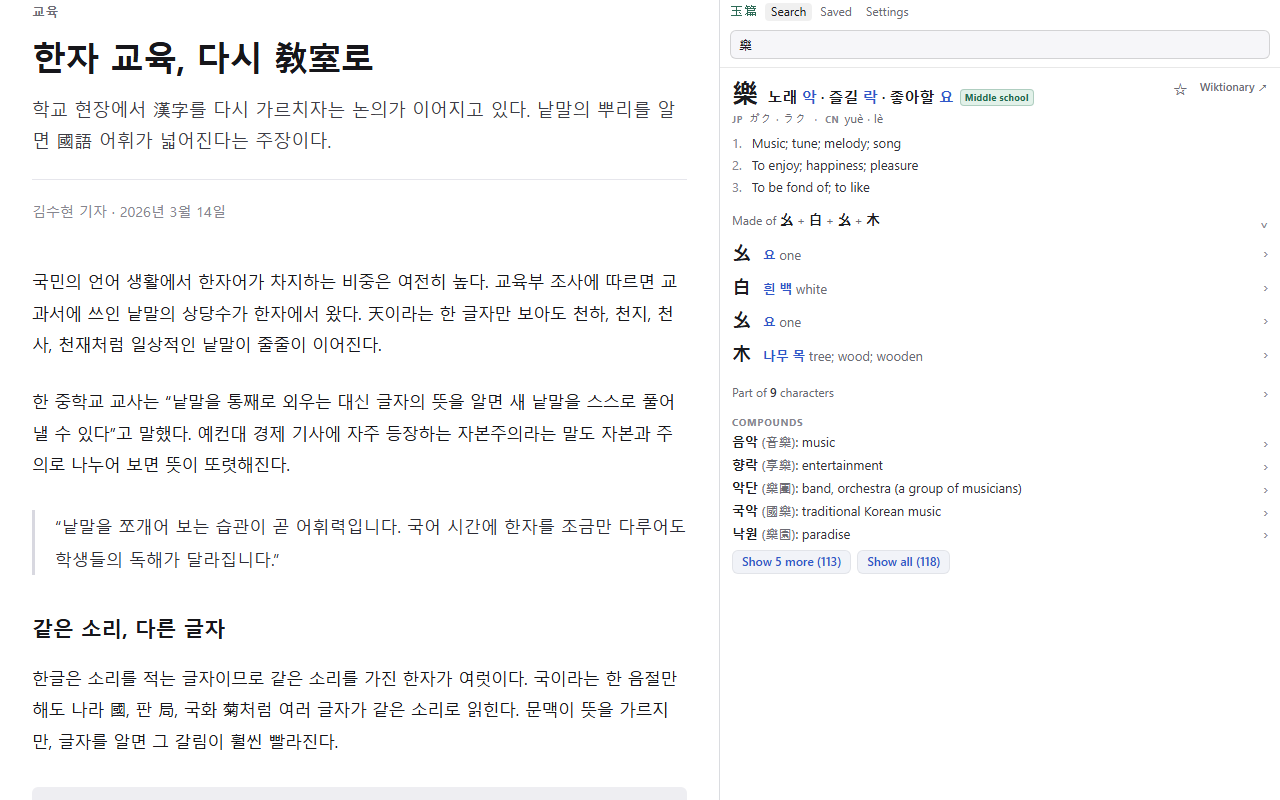
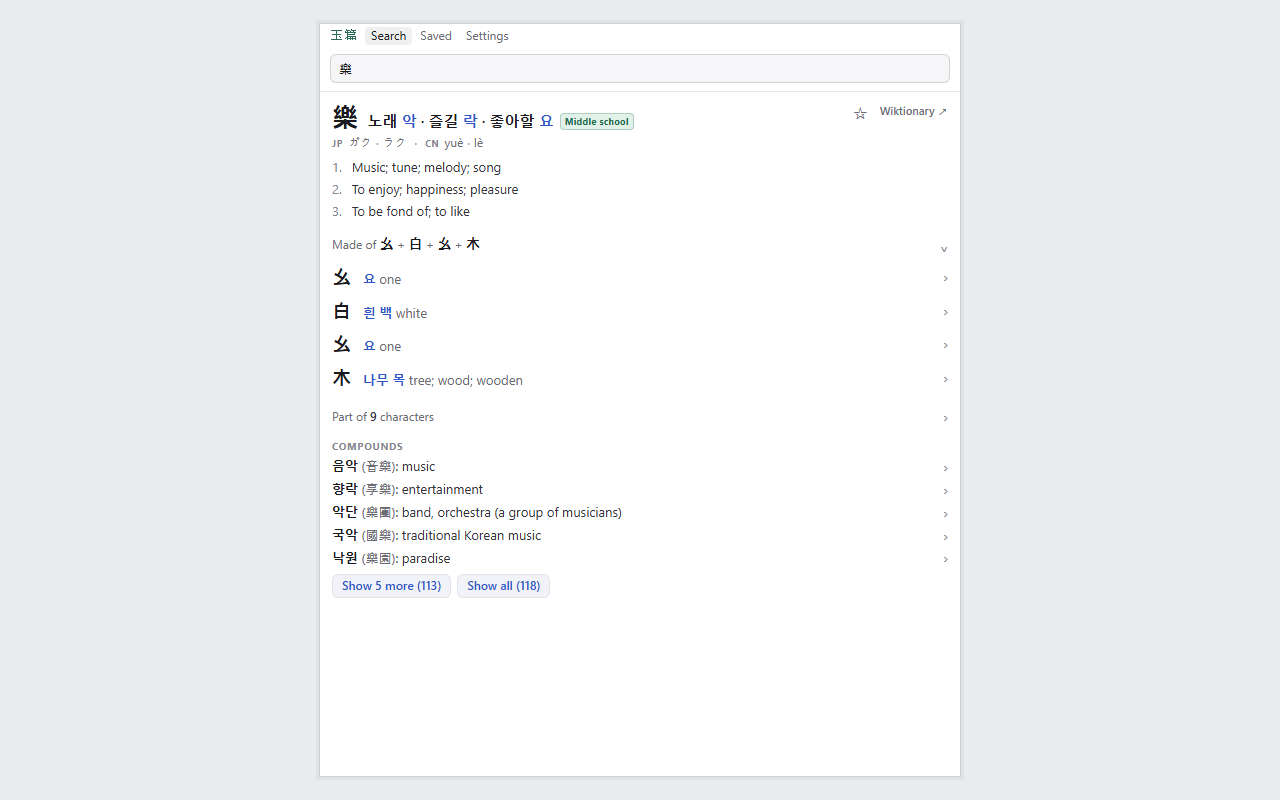
Screenshots: the four panel scenes become solo mounts
No article: the panel captures at 640x752 and mounts centered on a
quiet grey canvas with a hairline border, since the sidebar is the
subject and the fake page was noise there. Popup scenes untouched and
byte-identical. Shot 6's seal-room rule was re-measured at the new
height and the expanded folder flipped to keep the seal in frame;
shot 7 now shows the whole settings page including the new groups
and footer.

diff --git a/pipeline/make_screenshots.py b/pipeline/make_screenshots.py
@@ -27,8 +27,10 @@ This script then:
   3. captures each scene in its own tab, with the viewport size set BEFORE
      navigation (content.js hides the popup on resize, so a late resize would
      empty the shot),
-  4. composites the side-panel shots beside a narrower page shot, with the 1px
-     separator Chrome draws between a page and its side panel,
+  4. mounts the side-panel shots alone, centered on a quiet neutral backdrop
+     (the panel is those shots' whole subject; a page beside it only shrank
+     it), keeping the page-beside-panel composite path for any future shot
+     that needs it,
   5. asserts, per shot, both what the DOM says (the popup is up, the variant
      note rendered, the settings view mounted) and what the pixels say (exact
      size, RGB, no alpha, the corner seal actually visible where it is the
@@ -79,16 +81,30 @@ PAGE_W, PANEL_W = 919, 360
 SEPARATOR = (218, 220, 224)
 SEPARATOR_DARK = (60, 64, 67)
 
+# A "solo" shot mounts the panel alone: captured 640 wide and canvas-height
+# minus the margins tall, centered on a flat neutral backdrop. The backdrop
+# (#e9ebef) must sit far enough under the panel's white that the panel reads
+# as a card; the border is rgba(0,0,0,0.12) flattened onto the backdrop, and
+# the halo is a 3px band of fainter grey standing in for a shadow.
+SOLO_PANEL_W = 640
+SOLO_MARGIN = 24
+SOLO_PANEL_H = SHOT_H - 2 * SOLO_MARGIN
+SOLO_BACKDROP = (233, 235, 239)
+SOLO_BORDER = (205, 207, 210)
+SOLO_HALO = (224, 226, 230)
+
 
 # --------------------------------------------------------------------------
 # The scenes.
 #
-# Every shot is either a whole-viewport page capture ("page") or a page capture
-# docked beside a side-panel capture ("composite"). `page` and `panel` are query
-# strings for the staging pages; a "set" key in either turns the named settings
-# toggles on for the scene (the committed seeding path; no defaults are ever
-# hand-edited for a capture). `checks` are JS expressions that must all
-# evaluate true after the page signals ready, before anything is captured.
+# Every shot is a whole-viewport page capture ("page"), a side-panel capture
+# mounted alone on the neutral backdrop ("solo"), or a page capture docked
+# beside a side-panel capture ("composite", currently unused). `page` and
+# `panel` are query strings for the staging pages; a "set" key in either turns
+# the named settings toggles on for the scene (the committed seeding path; no
+# defaults are ever hand-edited for a capture). `checks` are JS expressions
+# that must all evaluate true after the page signals ready, before anything is
+# captured.
 # --------------------------------------------------------------------------
 
 # Shorthands for the checks, which all run against the content script's own
@@ -181,10 +197,9 @@ SHOTS = [
     {
         "n": 5,
         "name": "5-sidebar-search.png",
-        "kind": "composite",
-        "panel_w": 560,
-        "page": {"scene": "0", "scroll": 0},
+        "kind": "solo",
         "panel": {"view": "search", "q": "\uad6d\ubbfc", "set": "nativeWords"},
+        # Solo mount: the panel is the subject, so no article shares the frame.
         # The search view renders through content.js, so its nodes live in the
         # embedded panel's shadow root and only its own query hook sees them.
         # 1.2: nativeWords seeded, so the scope pills sit above the results, in
@@ -205,36 +220,35 @@ SHOTS = [
     {
         "n": 6,
         "name": "6-saved-words.png",
-        "kind": "composite",
-        "panel_w": 560,
-        "page": {"scene": "0", "scroll": 430},
-        # Six rendered rows is the most the seal's room rule tolerates: with a
-        # seventh the view stops being .view--roomy and the seal correctly
-        # vanishes. Two folders are therefore collapsed, which is also the
-        # honest picture of a library with three folders in it.
-        "panel": {"view": "saved", "collapse": "Saved,\uc2dc\ud5d8"},
+        "kind": "solo",
+        # Solo mount: the panel is the subject, so no article shares the frame.
+        # Five rendered rows is the most the seal's room rule tolerates in the
+        # 752px solo viewport (254px of room; a sixth row leaves 202 where the
+        # rule wants 230), so the expanded folder is the five-row exam one and
+        # the other two are collapsed, which is also the honest picture of a
+        # library with three folders in it.
+        "panel": {"view": "saved", "collapse": "Saved,\uad50\uacfc\uc11c"},
         "checks": [
             panel_has("saved view mounted", ".view--saved"),
             ("seal has room", 'document.querySelector(".view--saved")'
                               '.classList.contains("view--roomy")'),
             panel_has("filter reads All (13)", ".saved-bar", "All (13)"),
             panel_has("delete action present", ".saved-actions", "Delete"),
-            panel_has("expanded folder rows", ".saved-row", "\u570b\u6c11"),
+            panel_has("expanded folder rows", ".saved-row", "\u7d93\u6fdf"),
         ],
         "pixels": "seal",
     },
     {
         "n": 7,
         "name": "7-settings.png",
-        "kind": "composite",
-        "panel_w": 560,
-        "page": {"scene": "0", "scroll": 200},
+        "kind": "solo",
         "panel": {"view": "settings"},
+        # Solo mount: the panel is the subject, so no article shares the frame.
         # 1.2 made this view taller (the Search and Character cards groups, the
         # about footer), and the product's own room rule now retires the seal:
-        # 44px remain under the content where the rule wants 230. The seal
-        # checks left with it; the footer bound proves the taller view still
-        # fits the frame uncropped.
+        # the room under the content falls far short of the 230 the rule wants.
+        # The seal checks left with it; the footer bound proves the taller view
+        # still fits the 752px solo viewport uncropped.
         "checks": [
             panel_has("settings view mounted", ".view--settings"),
             panel_has("anki export section", ".view--settings", "Anki export"),
@@ -243,7 +257,7 @@ SHOTS = [
                       "Character cards"),
             ("about footer fully in frame",
              'document.querySelector(".settings-about")'
-             ".getBoundingClientRect().bottom < 800"),
+             ".getBoundingClientRect().bottom < 752"),
         ],
     },
     {
@@ -271,9 +285,8 @@ SHOTS = [
     {
         "n": 9,
         "name": "9-decomposition.png",
-        "kind": "composite",
-        "panel_w": 560,
-        "page": {"scene": "0", "scroll": 120},
+        "kind": "solo",
+        # Solo mount: the panel is the subject, so no article shares the frame.
         # 樂 searched in the panel, its "Made of" row opened: four parts with
         # their readings (幺's arrives via the readings[0] fallback), and the
         # "Part of" row underneath — 樂 is inside 9 characters, 藥 among them.
@@ -307,7 +320,7 @@ SHOTS = [
              '(globalThis.__hanjaHover.query(".foundin-row b").textContent | 0) >= 1'),
             ("the whole section is in frame",
              'globalThis.__hanjaHover.query(".foundin-row")'
-             ".getBoundingClientRect().bottom < 800"),
+             ".getBoundingClientRect().bottom < 752"),
         ],
     },
 ]
@@ -569,8 +582,8 @@ def run_checks(tab, checks, shot_name):
             raise AssertionError(f"{shot_name}: check failed -- {label}")
 
 
-def capture(chrome, port, page, params, width, checks=(), dark=False):
-    tab = Tab(chrome, width, SHOT_H, dark)
+def capture(chrome, port, page, params, width, checks=(), dark=False, height=SHOT_H):
+    tab = Tab(chrome, width, height, dark)
     try:
         tab.navigate(stage_url(port, page, params))
         tab.wait_ready()
@@ -578,8 +591,8 @@ def capture(chrome, port, page, params, width, checks=(), dark=False):
         image = tab.screenshot()
     finally:
         tab.close()
-    if image.size != (width, SHOT_H):
-        raise AssertionError(f"{page}: captured {image.size}, wanted {(width, SHOT_H)}")
+    if image.size != (width, height):
+        raise AssertionError(f"{page}: captured {image.size}, wanted {(width, height)}")
     return image
 
 
@@ -593,6 +606,21 @@ def compose(page_image, panel_image, dark=False):
     return out
 
 
+def compose_solo(panel_image):
+    """Center the panel on the neutral backdrop, framed as a card: a 1px
+    border under a 3px halo, both pasted as solid rectangles so the whole
+    mount stays plain PIL."""
+    out = Image.new("RGB", (SHOT_W, SHOT_H), SOLO_BACKDROP)
+    x = (SHOT_W - panel_image.width) // 2
+    y = (SHOT_H - panel_image.height) // 2
+    for inset, color in ((4, SOLO_HALO), (1, SOLO_BORDER)):
+        ring = Image.new("RGB", (panel_image.width + 2 * inset,
+                                 panel_image.height + 2 * inset), color)
+        out.paste(ring, (x - inset, y - inset))
+    out.paste(panel_image, (x, y))
+    return out
+
+
 def assert_image(image, name):
     if image.size != (SHOT_W, SHOT_H):
         raise AssertionError(f"{name}: {image.size}, wanted {(SHOT_W, SHOT_H)}")
@@ -602,11 +630,14 @@ def assert_image(image, name):
         raise AssertionError(f"{name}: carries a transparency key")
 
 
-def assert_seal(image, name):
+def assert_seal(image, name, corner=(SHOT_W, SHOT_H)):
     """The jade 玉篇 seal sits in the panel's lower-right corner when the view
     leaves room for it. Its ink is the only non-grey thing down there, so a
-    green cast in that box is proof it rendered."""
-    box = image.crop((SHOT_W - 130, SHOT_H - 230, SHOT_W - 10, SHOT_H - 10))
+    green cast in that box is proof it rendered. `corner` is the panel's
+    lower-right corner on the canvas; the default is the composite dock,
+    where the panel ends at the canvas edge."""
+    right, bottom = corner
+    box = image.crop((right - 130, bottom - 230, right - 10, bottom - 10))
     pixels = box.tobytes()
     jade = 0
     for i in range(0, len(pixels), 3):
@@ -619,21 +650,29 @@ def assert_seal(image, name):
 
 def build(shot, chrome, port, work_dir):
     dark = shot.get("dark", False)
-    panel_w = shot.get("panel_w", PANEL_W)
-    page_width = SHOT_W if shot["kind"] == "page" else SHOT_W - panel_w - 1
-    page_checks = shot["checks"] if shot["kind"] == "page" else ()
-    page_image = capture(chrome, port, "shots-page.html", shot["page"],
-                         page_width, page_checks, dark)
-    if shot["kind"] == "page":
-        image = page_image
-    else:
+    seal_corner = (SHOT_W, SHOT_H)
+    if shot["kind"] == "solo":
         panel_image = capture(chrome, port, "shots-panel.html", shot["panel"],
-                              panel_w, shot["checks"], dark)
-        image = compose(page_image, panel_image, dark)
+                              SOLO_PANEL_W, shot["checks"], dark,
+                              height=SOLO_PANEL_H)
+        image = compose_solo(panel_image)
+        seal_corner = ((SHOT_W + SOLO_PANEL_W) // 2, SOLO_MARGIN + SOLO_PANEL_H)
+    else:
+        panel_w = shot.get("panel_w", PANEL_W)
+        page_width = SHOT_W if shot["kind"] == "page" else SHOT_W - panel_w - 1
+        page_checks = shot["checks"] if shot["kind"] == "page" else ()
+        page_image = capture(chrome, port, "shots-page.html", shot["page"],
+                             page_width, page_checks, dark)
+        if shot["kind"] == "page":
+            image = page_image
+        else:
+            panel_image = capture(chrome, port, "shots-panel.html", shot["panel"],
+                                  panel_w, shot["checks"], dark)
+            image = compose(page_image, panel_image, dark)
 
     assert_image(image, shot["name"])
     if shot.get("pixels") == "seal":
-        assert_seal(image, shot["name"])
+        assert_seal(image, shot["name"], seal_corner)
 
     out = work_dir / shot["name"]
     image.save(out, "PNG", optimize=True)
